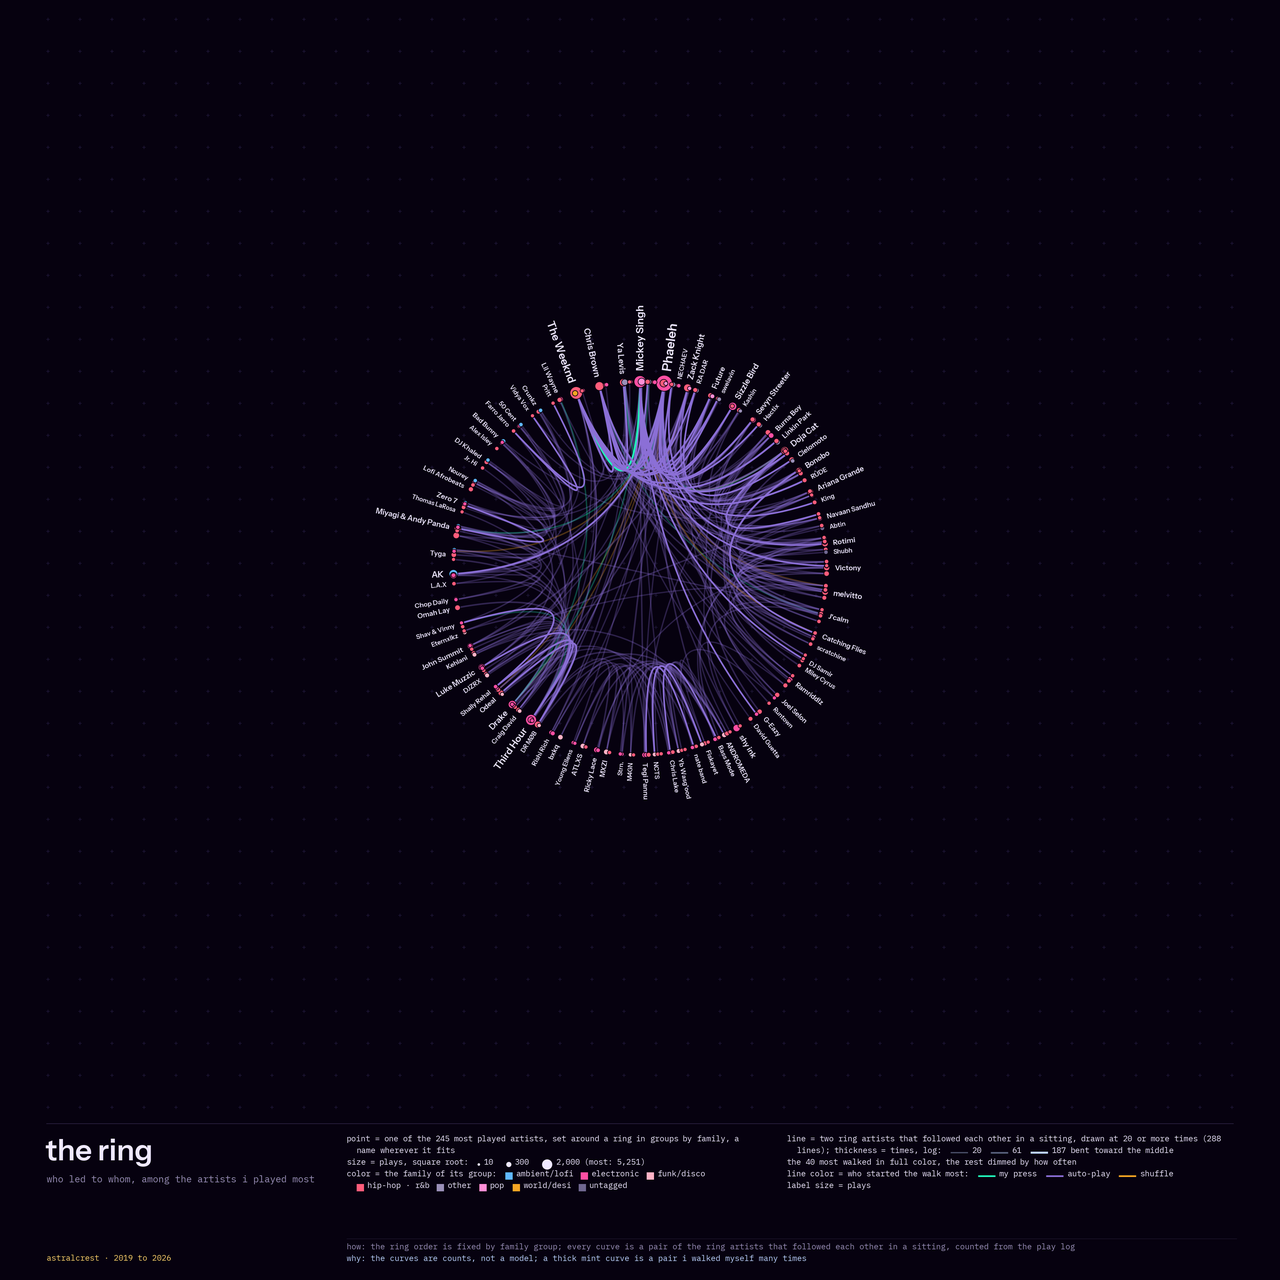
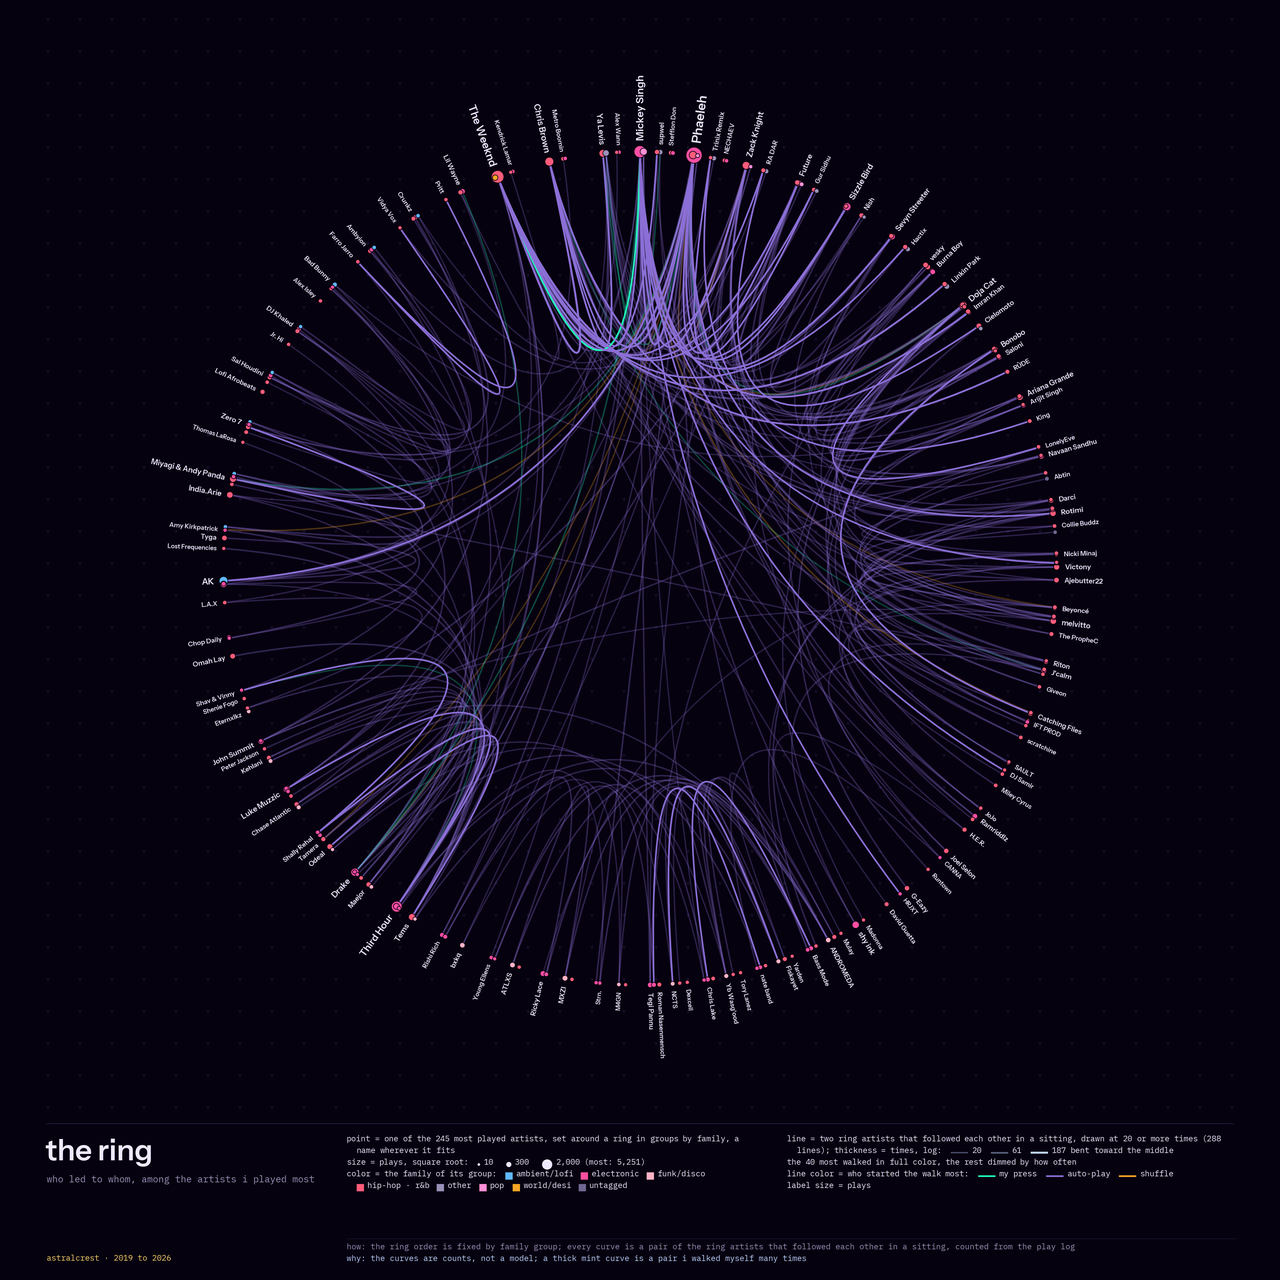
update

Changed region(s): [[0.125, 0.0625, 0.875, 0.8125], [0.6875, 0.6875, 0.7188, 0.7188]]

diff --git a/occupy/index.html b/occupy/index.html
@@ -5,7 +5,7 @@
 </head><body>
 <img id="s" alt="sonicManifold, a surface of the field">
 <script>
-var m={'entrance-led':'entrance-led-8640x2448.png','cube-1':'cube-1-rooms-1280x1280.png','cube-2':'cube-2-ring-1280x1280.png','cube-3':'cube-3-hand-1280x1280.png','cube-4':'cube-4-grew-1280x1280.png'};
+var m={'entrance-led':'entrance-led-8640x2448.png','cube-1':'cube-1-rooms-1280x1280.png','cube-2':'cube-2-ring-1280x1280.png','cube-3':'cube-3-hand-1280x1280.png','cube-4':'cube-4-time-1280x1280.png'};
 var s=new URLSearchParams(location.search).get('surface');
 if(!m[s]) s=innerWidth/innerHeight>2?'entrance-led':'cube-1';
 document.getElementById('s').src=m[s];
